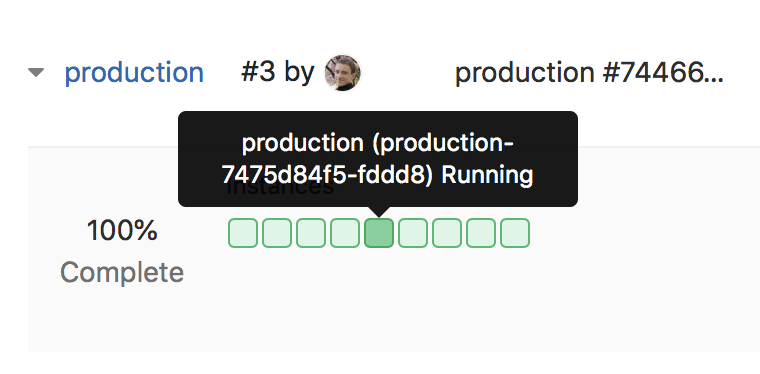
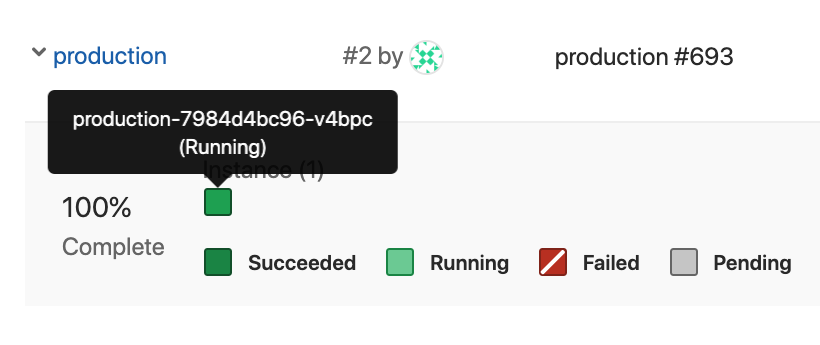
Update deployment instances tooltip content

diff --git a/ee/spec/lib/gitlab/kubernetes/deployment_spec.rb b/ee/spec/lib/gitlab/kubernetes/deployment_spec.rb
@@ -56,10 +56,10 @@ describe Gitlab::Kubernetes::Deployment do
 
       it 'returns all pods with generated names and pending' do
         expected = [
-          { status: 'pending', pod_name: 'generated-name-with-suffix', tooltip: 'unknown (generated-name-with-suffix) Pending', track: 'stable', stable: true },
-          { status: 'pending', pod_name: 'generated-name-with-suffix', tooltip: 'unknown (generated-name-with-suffix) Pending', track: 'stable', stable: true },
-          { status: 'pending', pod_name: 'generated-name-with-suffix', tooltip: 'unknown (generated-name-with-suffix) Pending', track: 'stable', stable: true },
-          { status: 'pending', pod_name: 'generated-name-with-suffix', tooltip: 'unknown (generated-name-with-suffix) Pending', track: 'stable', stable: true }
+          { status: 'pending', pod_name: 'generated-name-with-suffix', tooltip: 'generated-name-with-suffix (Pending)', track: 'stable', stable: true },
+          { status: 'pending', pod_name: 'generated-name-with-suffix', tooltip: 'generated-name-with-suffix (Pending)', track: 'stable', stable: true },
+          { status: 'pending', pod_name: 'generated-name-with-suffix', tooltip: 'generated-name-with-suffix (Pending)', track: 'stable', stable: true },
+          { status: 'pending', pod_name: 'generated-name-with-suffix', tooltip: 'generated-name-with-suffix (Pending)', track: 'stable', stable: true }
         ]
 
         expect(deployment.instances).to eq(expected)
@@ -75,9 +75,9 @@ describe Gitlab::Kubernetes::Deployment do
 
       it 'returns not spawned pods as pending and unknown and running' do
         expected = [
-          { status: 'running', pod_name: 'generated-name-with-suffix', tooltip: 'unknown (generated-name-with-suffix) Running', track: 'stable', stable: true },
-          { status: 'pending', pod_name: 'Not provided', tooltip: 'unknown (Not provided) Pending', track: 'stable', stable: true },
-          { status: 'pending', pod_name: 'Not provided', tooltip: 'unknown (Not provided) Pending', track: 'stable', stable: true }
+          { status: 'running', pod_name: 'generated-name-with-suffix', tooltip: 'generated-name-with-suffix (Running)', track: 'stable', stable: true },
+          { status: 'pending', pod_name: 'Not provided', tooltip: 'Not provided (Pending)', track: 'stable', stable: true },
+          { status: 'pending', pod_name: 'Not provided', tooltip: 'Not provided (Pending)', track: 'stable', stable: true }
         ]
 
         expect(deployment.instances).to eq(expected)
@@ -98,10 +98,10 @@ describe Gitlab::Kubernetes::Deployment do
 
       it 'returns all instances as named and waiting' do
         expected = [
-          { status: 'pending', pod_name: 'kube-pod', tooltip: 'foo (kube-pod) Pending', track: 'stable', stable: true },
-          { status: 'pending', pod_name: 'kube-pod1', tooltip: 'foo (kube-pod1) Pending', track: 'stable', stable: true },
-          { status: 'pending', pod_name: 'kube-pod2', tooltip: 'foo (kube-pod2) Pending', track: 'stable', stable: true },
-          { status: 'pending', pod_name: 'kube-pod3', tooltip: 'foo (kube-pod3) Pending', track: 'stable', stable: true }
+          { status: 'pending', pod_name: 'kube-pod', tooltip: 'kube-pod (Pending)', track: 'stable', stable: true },
+          { status: 'pending', pod_name: 'kube-pod1', tooltip: 'kube-pod1 (Pending)', track: 'stable', stable: true },
+          { status: 'pending', pod_name: 'kube-pod2', tooltip: 'kube-pod2 (Pending)', track: 'stable', stable: true },
+          { status: 'pending', pod_name: 'kube-pod3', tooltip: 'kube-pod3 (Pending)', track: 'stable', stable: true }
         ]
 
         expect(deployment.instances).to eq(expected)
@@ -122,10 +122,10 @@ describe Gitlab::Kubernetes::Deployment do
 
       it 'returns all instances' do
         expected = [
-          { status: 'succeeded', pod_name: 'kube-pod', tooltip: 'foo (kube-pod) Succeeded', track: 'stable', stable: true },
-          { status: 'running', pod_name: 'kube-pod1', tooltip: 'foo (kube-pod1) Running', track: 'stable', stable: true },
-          { status: 'pending', pod_name: 'kube-pod2', tooltip: 'foo (kube-pod2) Pending', track: 'stable', stable: true },
-          { status: 'pending', pod_name: 'kube-pod3', tooltip: 'foo (kube-pod3) Pending', track: 'stable', stable: true }
+          { status: 'succeeded', pod_name: 'kube-pod', tooltip: 'kube-pod (Succeeded)', track: 'stable', stable: true },
+          { status: 'running', pod_name: 'kube-pod1', tooltip: 'kube-pod1 (Running)', track: 'stable', stable: true },
+          { status: 'pending', pod_name: 'kube-pod2', tooltip: 'kube-pod2 (Pending)', track: 'stable', stable: true },
+          { status: 'pending', pod_name: 'kube-pod3', tooltip: 'kube-pod3 (Pending)', track: 'stable', stable: true }
         ]
 
         expect(deployment.instances).to eq(expected)
@@ -142,7 +142,7 @@ describe Gitlab::Kubernetes::Deployment do
 
         it 'returns all instances' do
           expected = [
-            { status: 'pending', pod_name: 'kube-pod', tooltip: 'foo (kube-pod) Pending', track: 'stable', stable: true }
+            { status: 'pending', pod_name: 'kube-pod', tooltip: 'kube-pod (Pending)', track: 'stable', stable: true }
           ]
 
           expect(deployment.instances).to eq(expected)
@@ -155,7 +155,7 @@ describe Gitlab::Kubernetes::Deployment do
 
         it 'returns all instances' do
           expected = [
-            { status: 'pending', pod_name: 'kube-pod', tooltip: 'foo (kube-pod) Pending', track: 'canary', stable: false }
+            { status: 'pending', pod_name: 'kube-pod', tooltip: 'kube-pod (Pending)', track: 'canary', stable: false }
           ]
 
           expect(deployment.instances).to eq(expected)

diff --git a/ee/lib/gitlab/kubernetes/deployment.rb b/ee/lib/gitlab/kubernetes/deployment.rb
@@ -81,7 +81,7 @@ module Gitlab
         {
           status: pod_status&.downcase,
           pod_name: pod_name,
-          tooltip: "#{name} (#{pod_name}) #{pod_status}",
+          tooltip: "#{pod_name} (#{pod_status})",
           track: track,
           stable: stable?
         }
